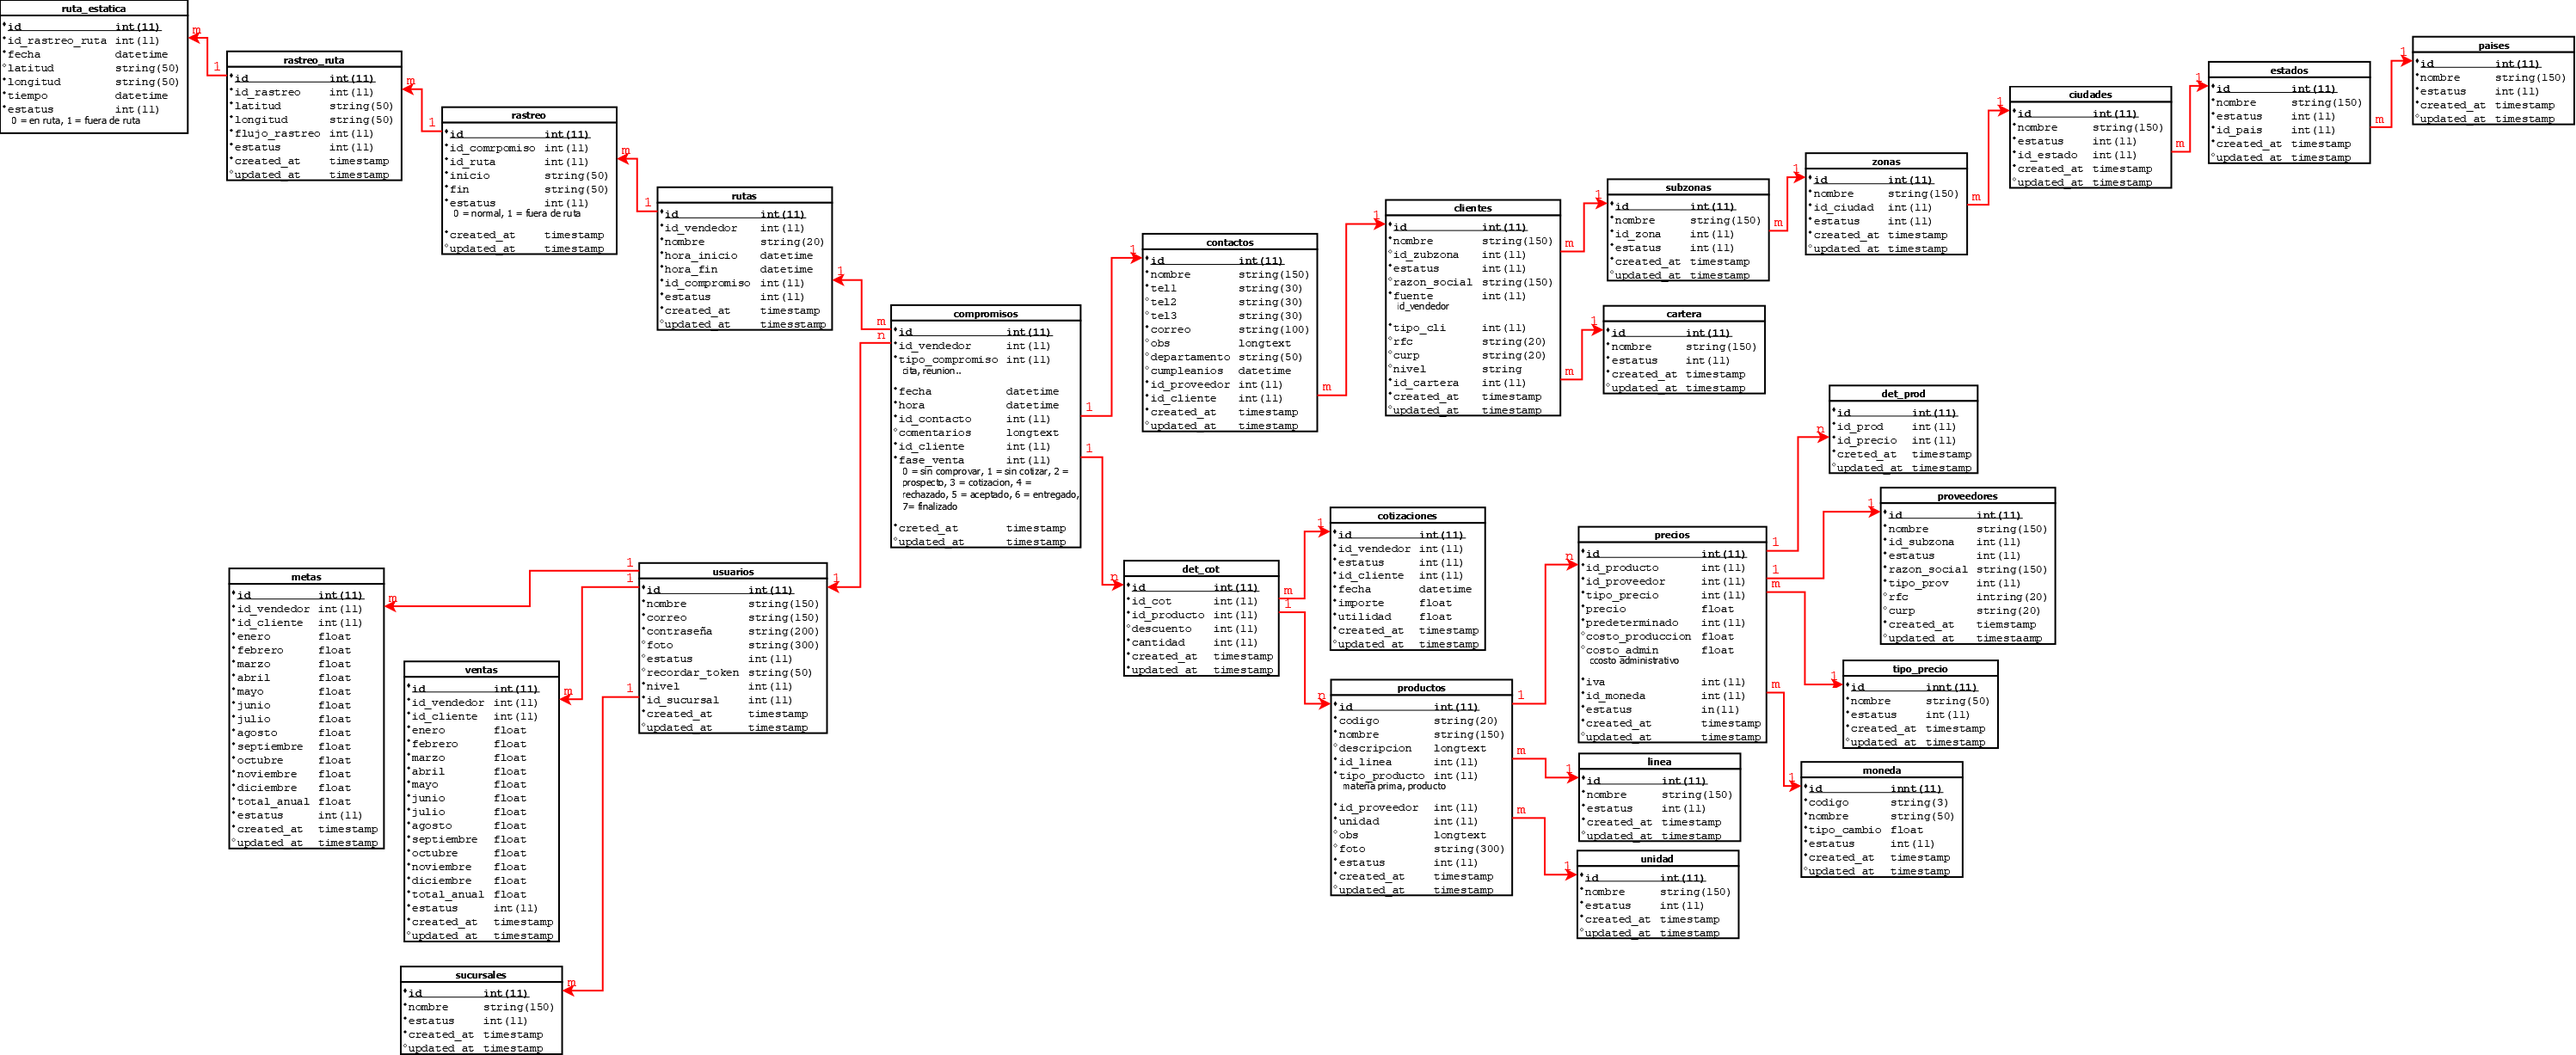
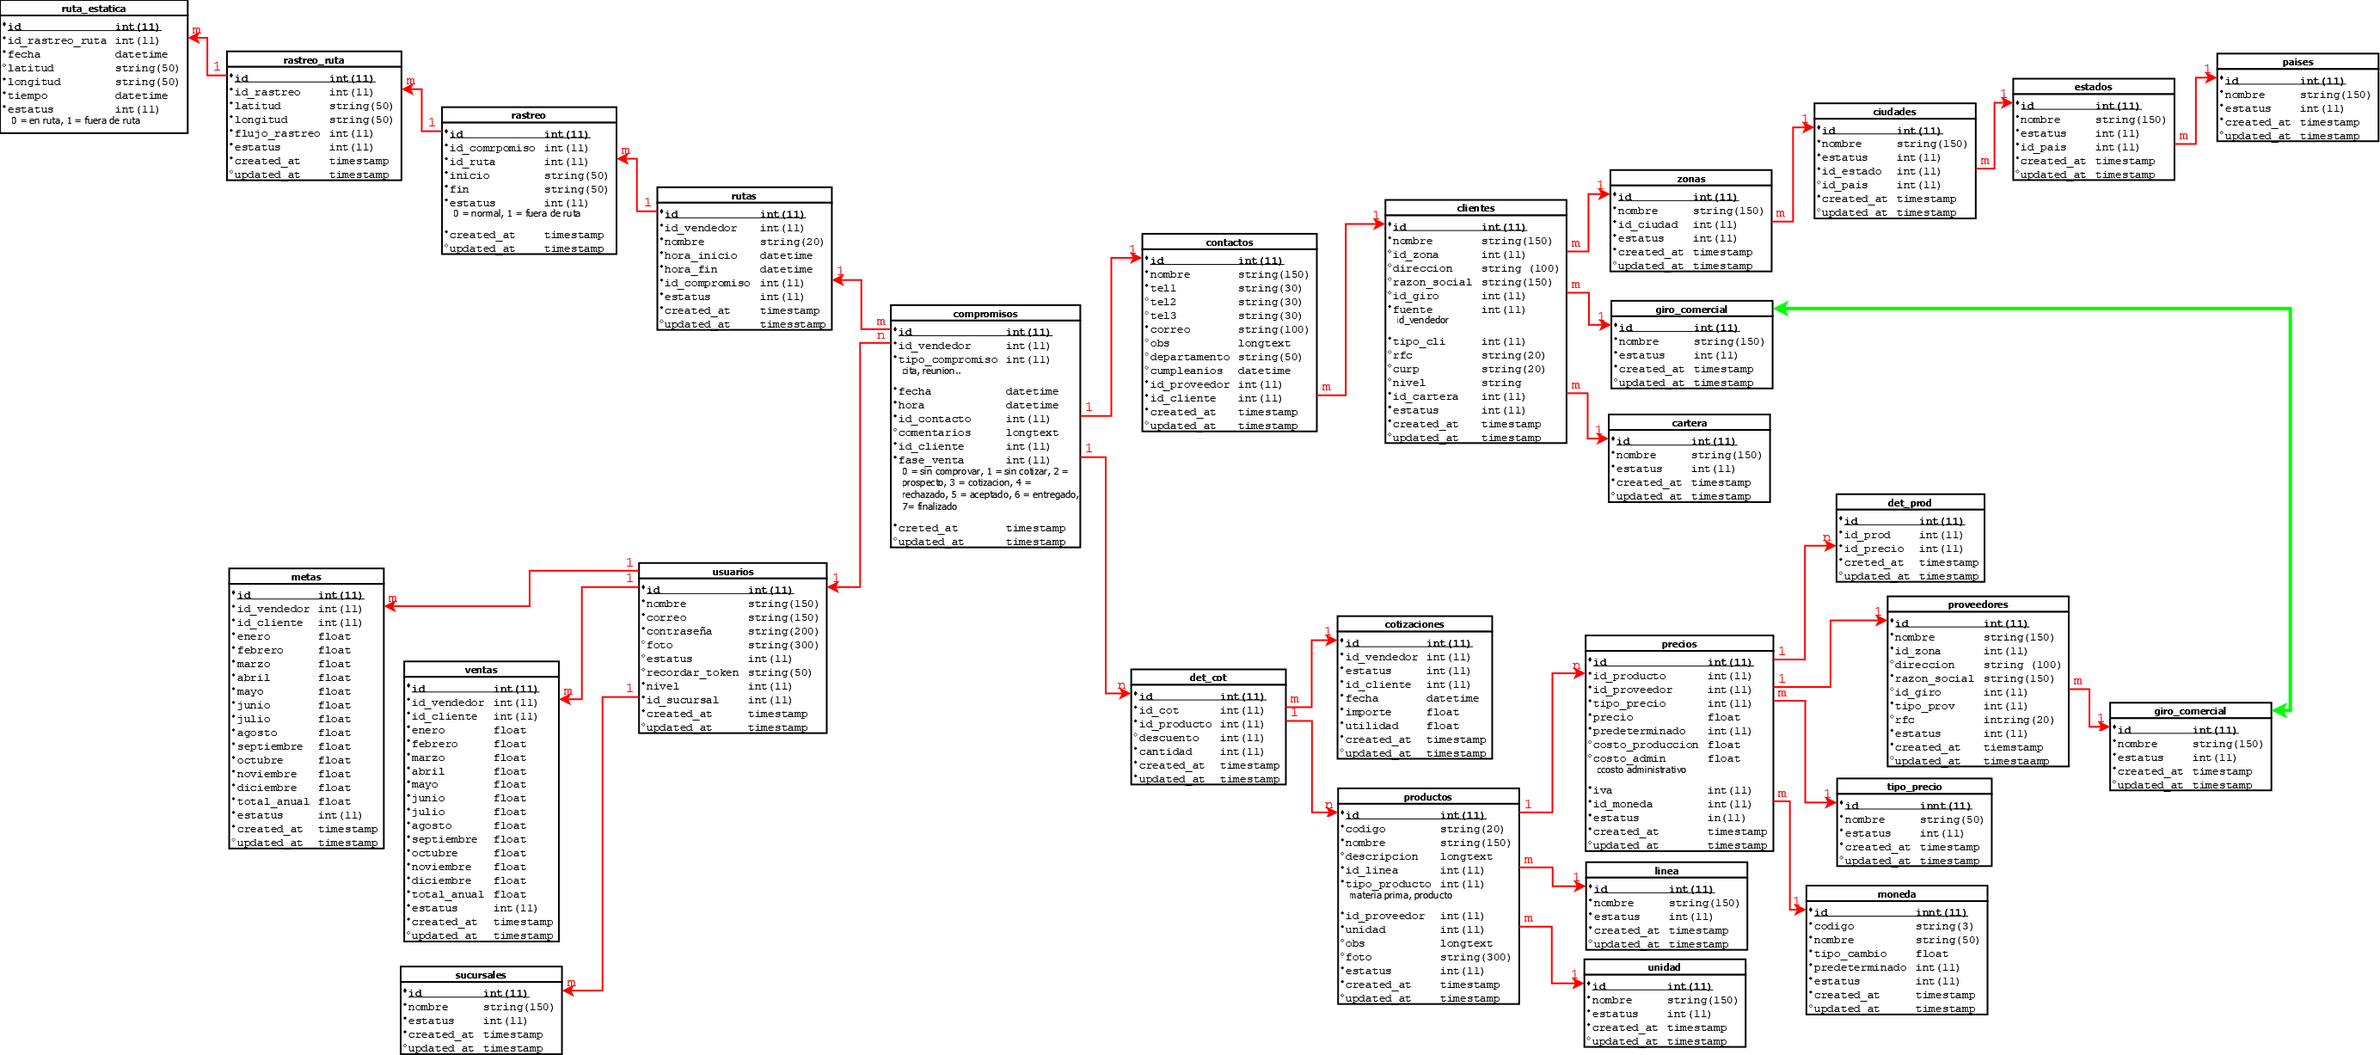
Modificacion de Diagrama y Migraciones
Modificacion de diagrama Entidad-Relacion, Migraciones y Tablas de Clientes, Proveedores, Monedas y Ciudades

Changed region(s): [[0.0, 0.0, 1.0, 1.0]]

diff --git a/api/database/migrations/2020_03_10_005550_create_proveedores_table.php b/api/database/migrations/2020_03_10_005550_create_proveedores_table.php
@@ -16,11 +16,12 @@ class CreateProveedoresTable extends Migration
         Schema::create('proveedores', function (Blueprint $table) {
             $table->bigIncrements('id'); //Big Increments crea la tabla como Big integer y autoincremental, se puede agregar tambien como bigInteger('id',true) y pasarle true para que sea autoincremental
             $table->string('nombre');
-            $table->string('id_zona');
+            $table->integer('id_zona');
+            $table->string('direccion')->nullable();
             $table->string('razon_social')->nullable();
+            $table->integer('id_giro')->nullable();
             $table->integer('tipo_prov');//nacional, internacional
-            $table->string('rfc')->nullable();
-            $table->string('curp')->nullable();            
+            $table->string('rfc')->nullable();         
             $table->string('estatus');
             $table->timestamps();
         });

diff --git a/api/database/migrations/2020_03_09_223928_create_clientes_table.php b/api/database/migrations/2020_03_09_223928_create_clientes_table.php
@@ -20,10 +20,10 @@ class CreateClientesTable extends Migration
             $table->integer('id_zona')->nullable();
             $table->string('direccion')->nullable();
             $table->string('razon_social')->nullable();
+            $table->integer('id_giro')->nullable();
             $table->integer('fuente');//id del vendedor : quien registró al cliente
             $table->integer('tipo_cliente');
             $table->string('rfc')->nullable();
-            $table->string('curp')->nullable();
             $table->integer('nivel')->nullable();
             $table->integer('id_cartera')->nullable();
             $table->integer('estatus');

diff --git a/api/database/migrations/2020_04_01_065021_giro_comercial.php b/api/database/migrations/2020_04_01_065021_giro_comercial.php
@@ -16,7 +16,7 @@ class GiroComercial extends Migration
         Schema::create('giro_comercial', function (Blueprint $table) {
             $table->bigIncrements('id'); //Big Increments crea la tabla como Big integer y autoincremental, se puede agregar tambien como bigInteger('id',true) y pasarle true para que sea autoincremental
             $table->string('nombre');
-            $table->string('estatus');
+            $table->integer('estatus');
             $table->timestamps();
         });
     }

diff --git a/api/database/migrations/2020_03_09_234518_create_monedas_table.php b/api/database/migrations/2020_03_09_234518_create_monedas_table.php
@@ -18,6 +18,7 @@ class CreateMonedasTable extends Migration
             $table->string('codigo');
             $table->string('nombre');
             $table->float('tipo_cambio');
+            $table->integer('predeterminado');
             $table->integer('estatus');
             $table->timestamps();
         });

diff --git a/api/database/migrations/2020_03_09_232106_create_ciudades_table.php b/api/database/migrations/2020_03_09_232106_create_ciudades_table.php
@@ -18,6 +18,7 @@ class CreateCiudadesTable extends Migration
             $table->string('nombre');
             $table->integer('estatus');
             $table->integer('id_estado');
+            $table->integer('id_pais');
             $table->timestamps();
         });
     }
